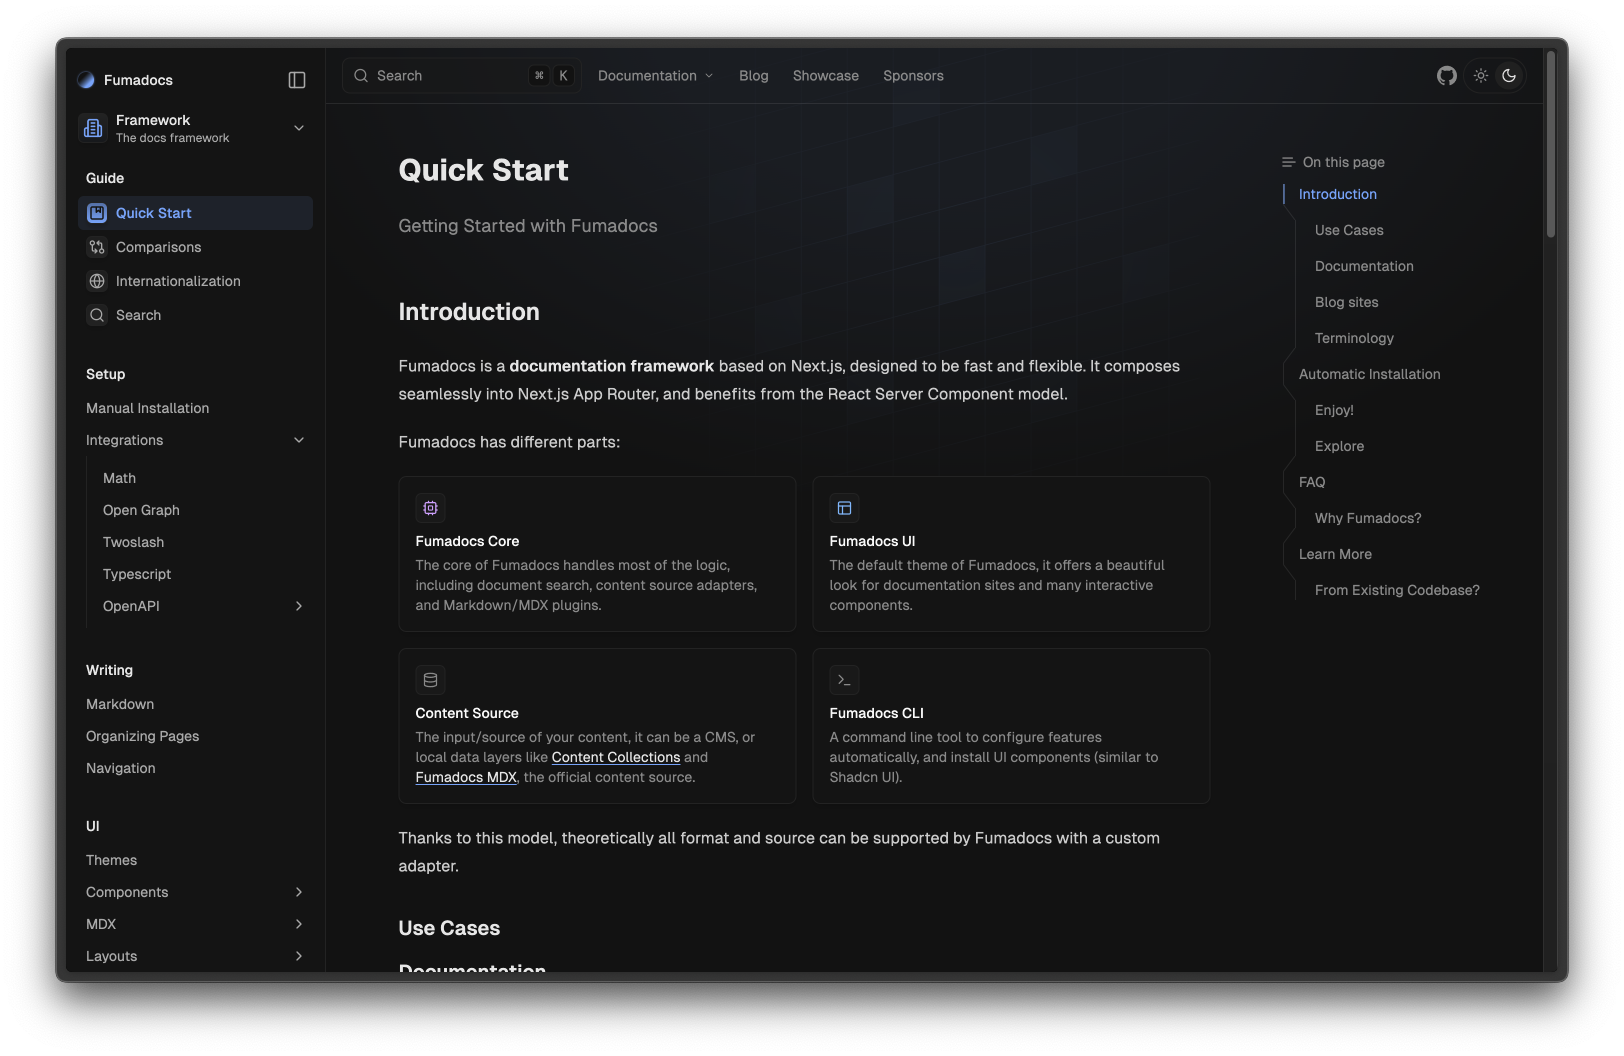
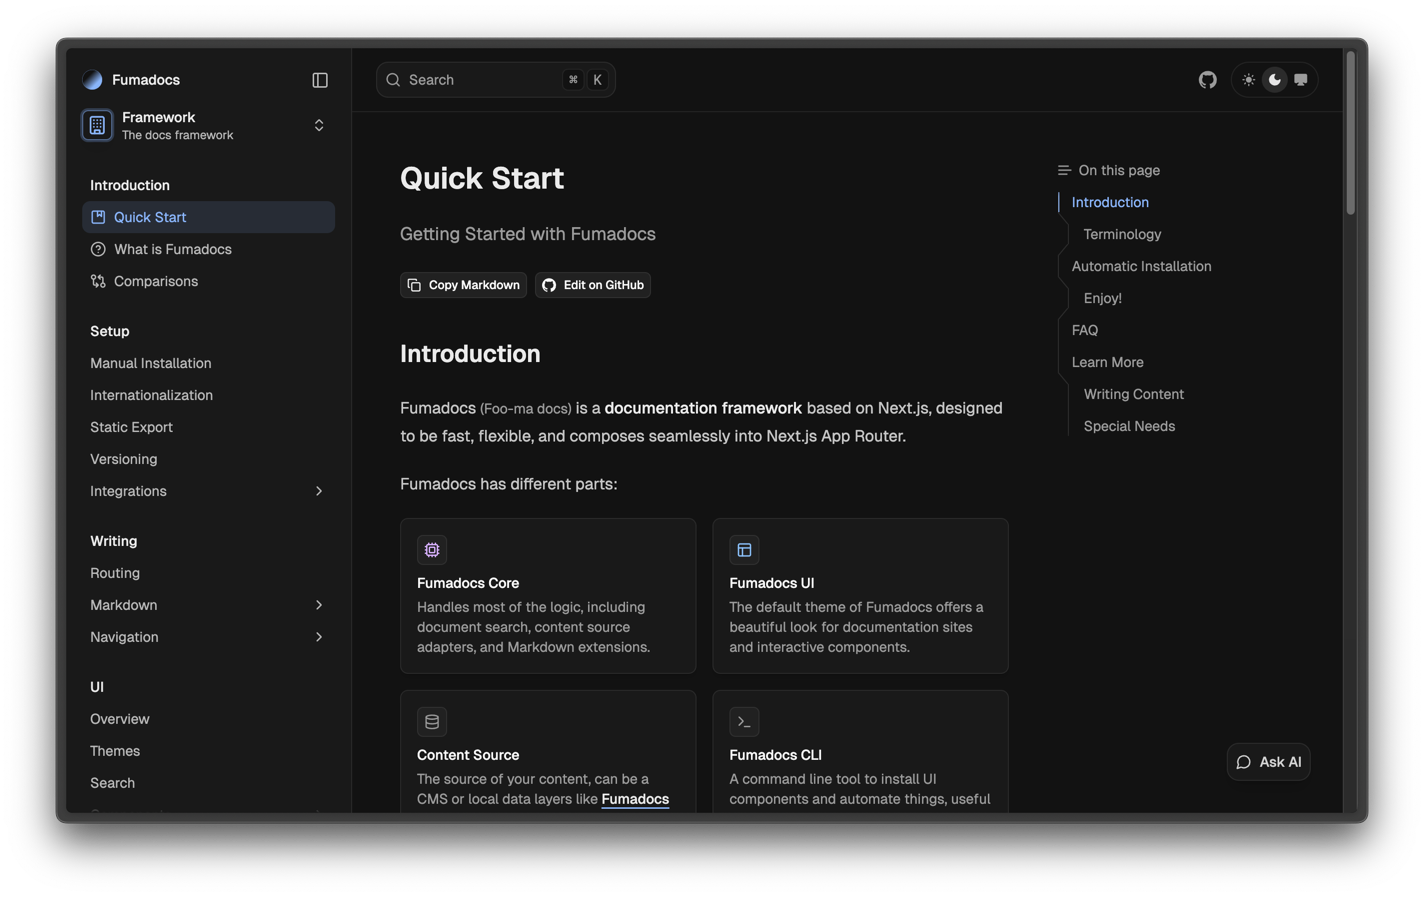
Docs: improve Notebook layout docs

diff --git a/packages/ui/src/components/ui/hide-if-empty.tsx b/packages/ui/src/components/ui/hide-if-empty.tsx
@@ -2,22 +2,6 @@
 import { Slot } from '@radix-ui/react-slot';
 import { useEffect, useId, useRef, useState } from 'react';
 
-const init = `function isEmpty(node) {
-  for (let i = 0; i < node.childNodes.length; i++) {
-    const child = node.childNodes.item(i);
-    if (child.nodeType === Node.TEXT_NODE) {
-      return false
-    } else if (
-      child.nodeType === Node.ELEMENT_NODE &&
-      window.getComputedStyle(child).display !== 'none'
-    ) {
-      return false
-    }
-  }
-
-  return true;
-}`;
-
 function isEmpty(node: HTMLElement) {
   for (let i = 0; i < node.childNodes.length; i++) {
     const child = node.childNodes.item(i);
@@ -62,23 +46,39 @@ export function HideIfEmpty({ children }: { children: React.ReactNode }) {
   }, []);
 
   const inject = `
-${init}
-const element = document.querySelector('[data-hide-if-empty="${id}"]')
+function isEmpty(node) {
+  for (let i = 0; i < node.childNodes.length; i++) {
+    const child = node.childNodes.item(i);
+    if (child.nodeType === Node.TEXT_NODE) {
+      return false
+    } else if (
+      child.nodeType === Node.ELEMENT_NODE &&
+      window.getComputedStyle(child).display !== 'none'
+    ) {
+      return false
+    }
+  }
+
+  return true;
+}
+
+const element = document.querySelector('[data-fdid="${id}"]')
 if (element) {
   element.setAttribute('data-empty', String(isEmpty(element)))
 }`;
 
   return (
     <>
-      {empty === undefined && <script>{`{ ${inject} }`}</script>}
       <Slot
         ref={ref}
-        data-hide-if-empty={id}
+        data-fdid={id}
         data-empty={empty}
         className="data-[empty=true]:hidden"
+        suppressHydrationWarning
       >
         {children}
       </Slot>
+      {empty === undefined && <script>{`{ ${inject} }`}</script>}
     </>
   );
 }

diff --git a/packages/ui/src/layouts/notebook-client.tsx b/packages/ui/src/layouts/notebook-client.tsx
@@ -22,7 +22,7 @@ export function Navbar({
       id="nd-subnav"
       {...props}
       className={cn(
-        'fixed inset-x-0 top-(--fd-banner-height) z-10 px-(--fd-layout-offset) backdrop-blur-sm transition-colors',
+        'fixed flex flex-col inset-x-0 top-(--fd-banner-height) z-10 px-(--fd-layout-offset) h-(--fd-nav-height) backdrop-blur-sm transition-colors',
         (!isTransparent || open) && 'bg-fd-background/80',
         mode === 'auto' &&
           !collapsed &&

diff --git a/packages/ui/src/layouts/notebook.tsx b/packages/ui/src/layouts/notebook.tsx
@@ -248,7 +248,7 @@ function DocsNavbar({
     <Navbar mode={navMode}>
       <div
         className={cn(
-          'flex flex-row border-b px-4 h-(--fd-nav-height)',
+          'flex border-b px-4 flex-1',
           navMode === 'auto' && 'md:px-6',
         )}
       >